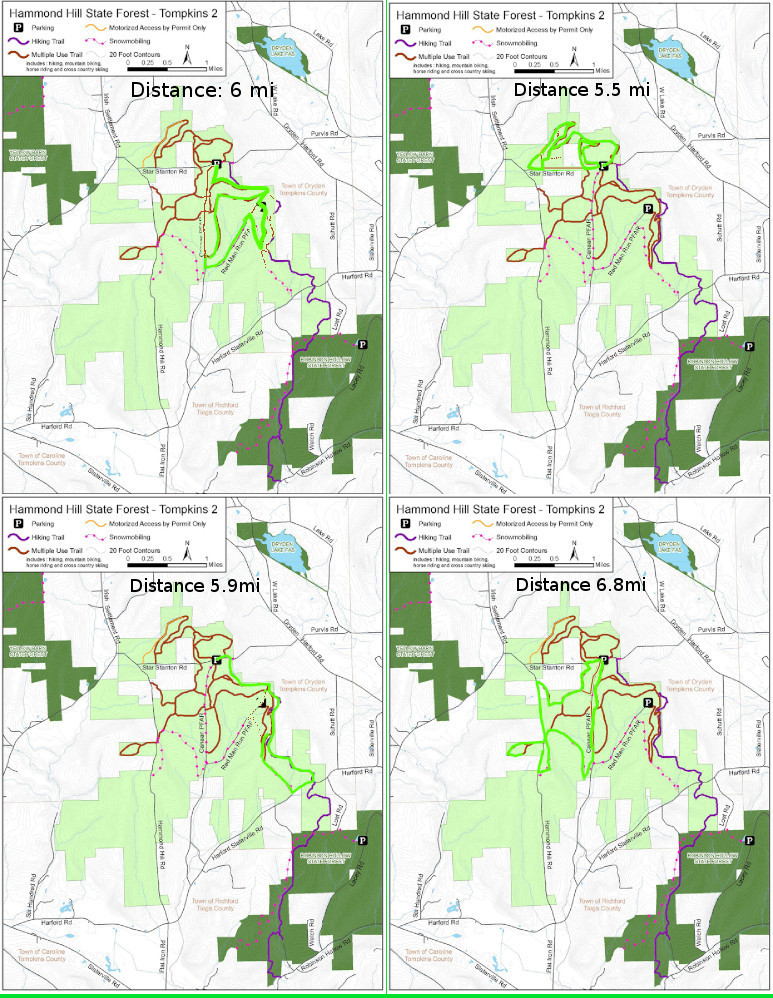
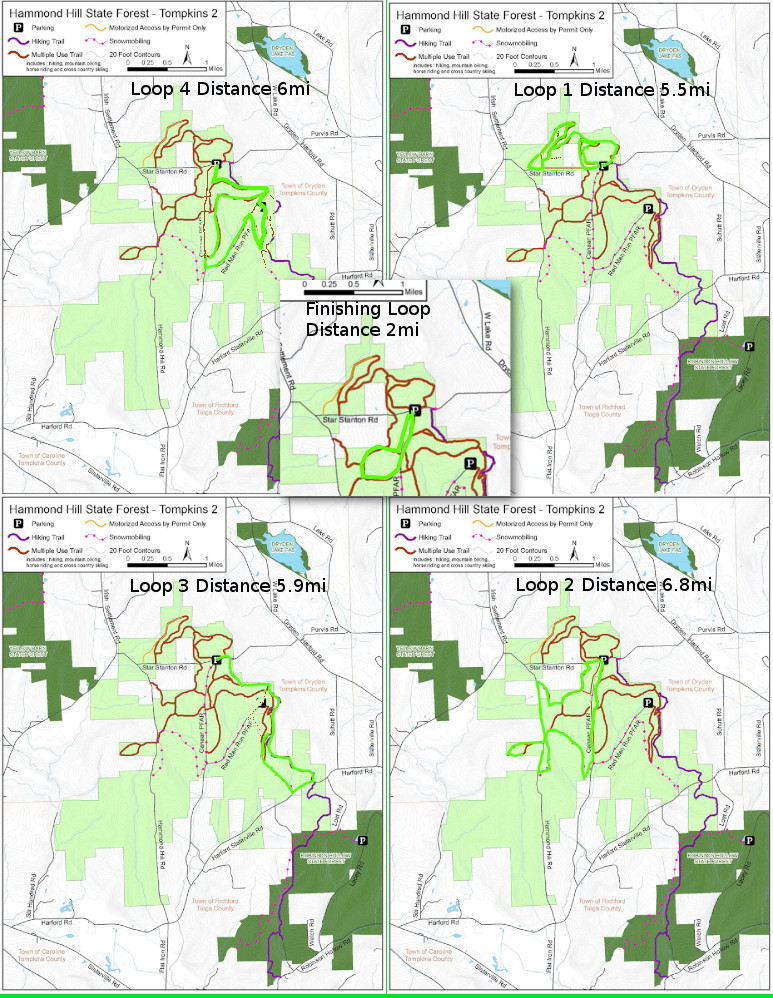
baby loop updates

diff --git a/hammond.html b/hammond.html
@@ -102,7 +102,7 @@ Surjith S M / @surjithctly
             <div class="row">
                 <h2>Hammond Relays</h2>
                 <img src="images/Hammond_Relays_2019_logo.png" alt="Image" style="max-height: 50vh;" />
-                <h4> 50 Mile relay with teams of 4 people. Clover leaf 4 loop course from a central start/end location. Each loop is approx. 6mi. Teams must run all loops twice to finish. Individual division must complete each loop once for the "marathon" (25mi).</h4>
+                <h4> 50 Mile relay with teams of 4 people. Clover leaf 4 loop course from a central start/end location. Each loop is approx. 6mi. Teams must run all loops twice, and the "Finishing Loop" once in order to finish. Individual division must complete each loop once for the Marathon.</h4>
                 <button onclick="window.location.href = 'https://ultrasignup.com/register.aspx?did=68419';"  style="    
                 background: blue;
                 color: white;
@@ -131,7 +131,7 @@ Surjith S M / @surjithctly
             <div class="row blog">
                 <div class="col-sm-6">
                         <h2 style="text-align: center">Registration</h2>
-                    <p>Registration for the 2019 Hammond Relays opens Monday June 3rd on <a href="https://ultrasignup.com/register.aspx?did=68419">Ultra SignUp</a>. The 50mi, 4-person relay is $100, and the 25mi is $35. Fees include race shirt, a small aid station at the start/finish of each loop, beer on tap with finisher pint glasses, awards for top teams and top finishers in the 25mi, and, most importantly, a fun supported day in the woods. 
+                    <p>Registration for the 2019 Hammond Relays opens Monday June 3rd on <a href="https://ultrasignup.com/register.aspx?did=68419">Ultra SignUp</a>. The 50mi, 4-person relay is $100, and the marathon is $35. Fees include race shirt, a small aid station at the start/finish of each loop, beer on tap with finisher pint glasses, awards for top teams and top finishers in the 25mi, and, most importantly, a fun supported day in the woods. 
                         Our goal is to provide an affordable event but at the high quality you are used to seeing at the bigger more expensive races. 
                         <br>
                         <br>
@@ -157,7 +157,7 @@ Surjith S M / @surjithctly
                     7:00-7:45am -  Bib pickup at the start line for the relay<br>
                     8:00am -  50 mile relay begins <br>
                     9:00-9:45am - Bib pickup at the start line for the 25 mile individual <br>
-                    10:00am - 25 mile individual race begins </p>
+                    10:00am - Marathon individual race begins </p>
             </div>
             <br>
             <br>
